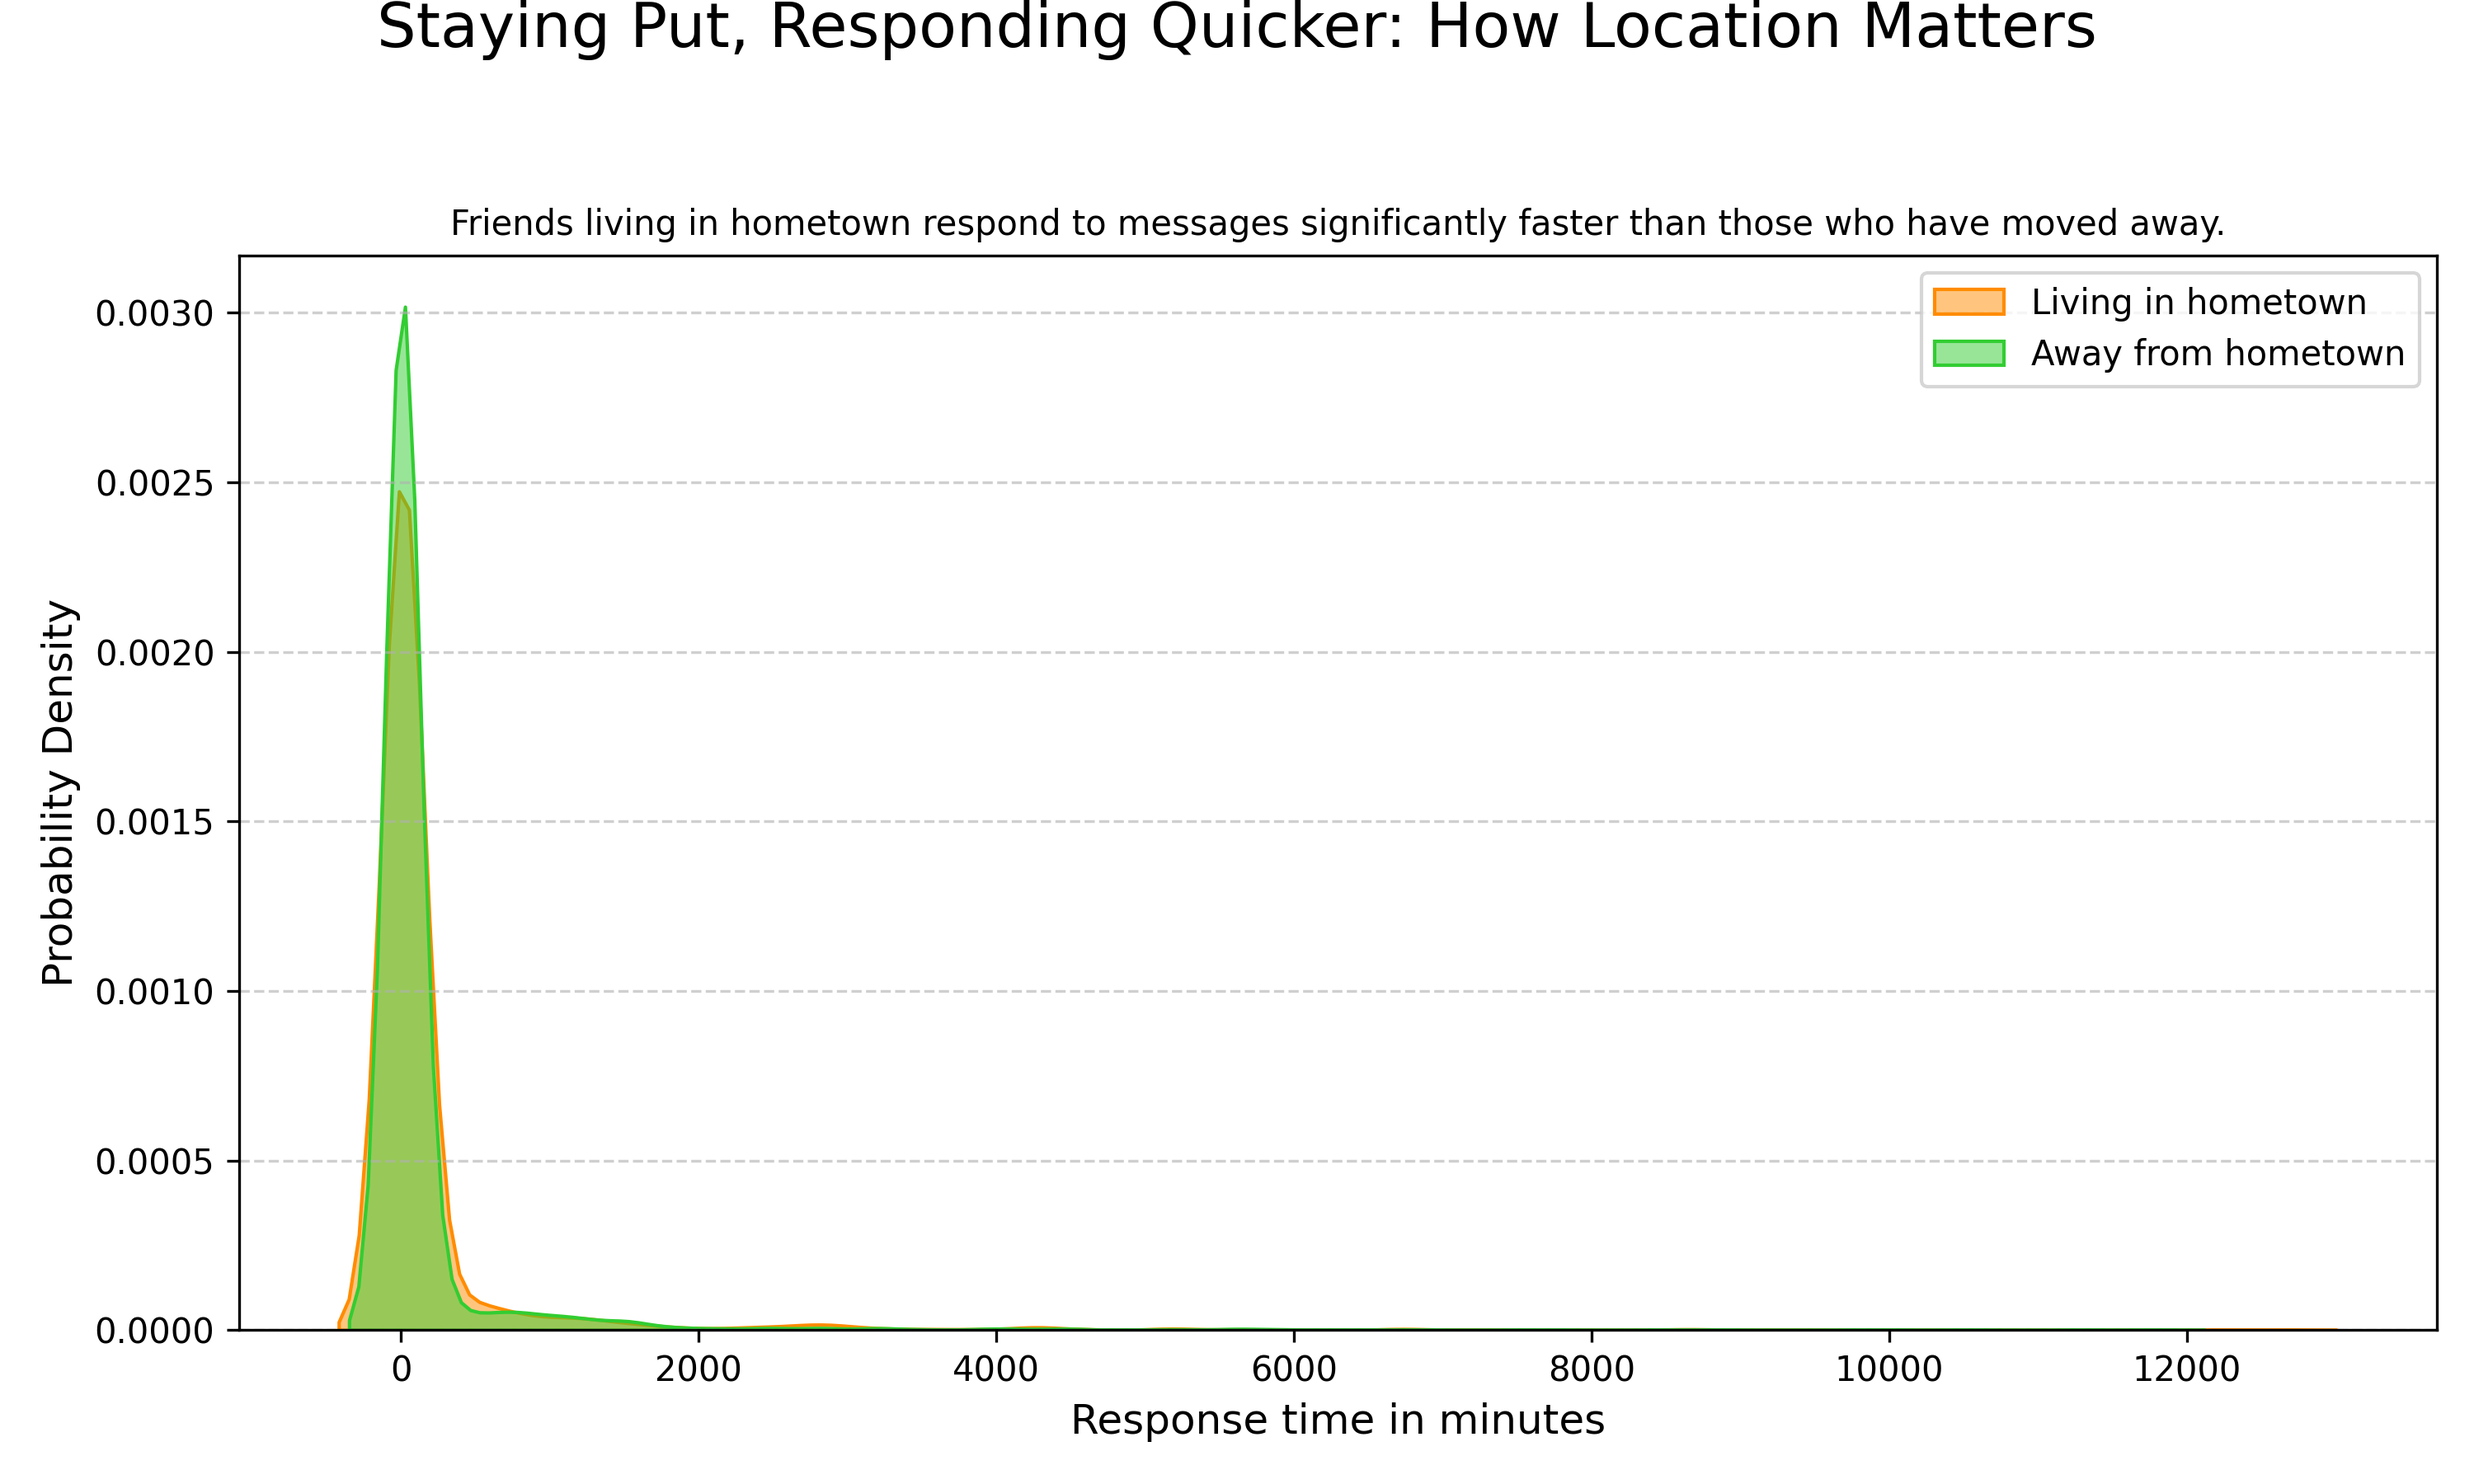
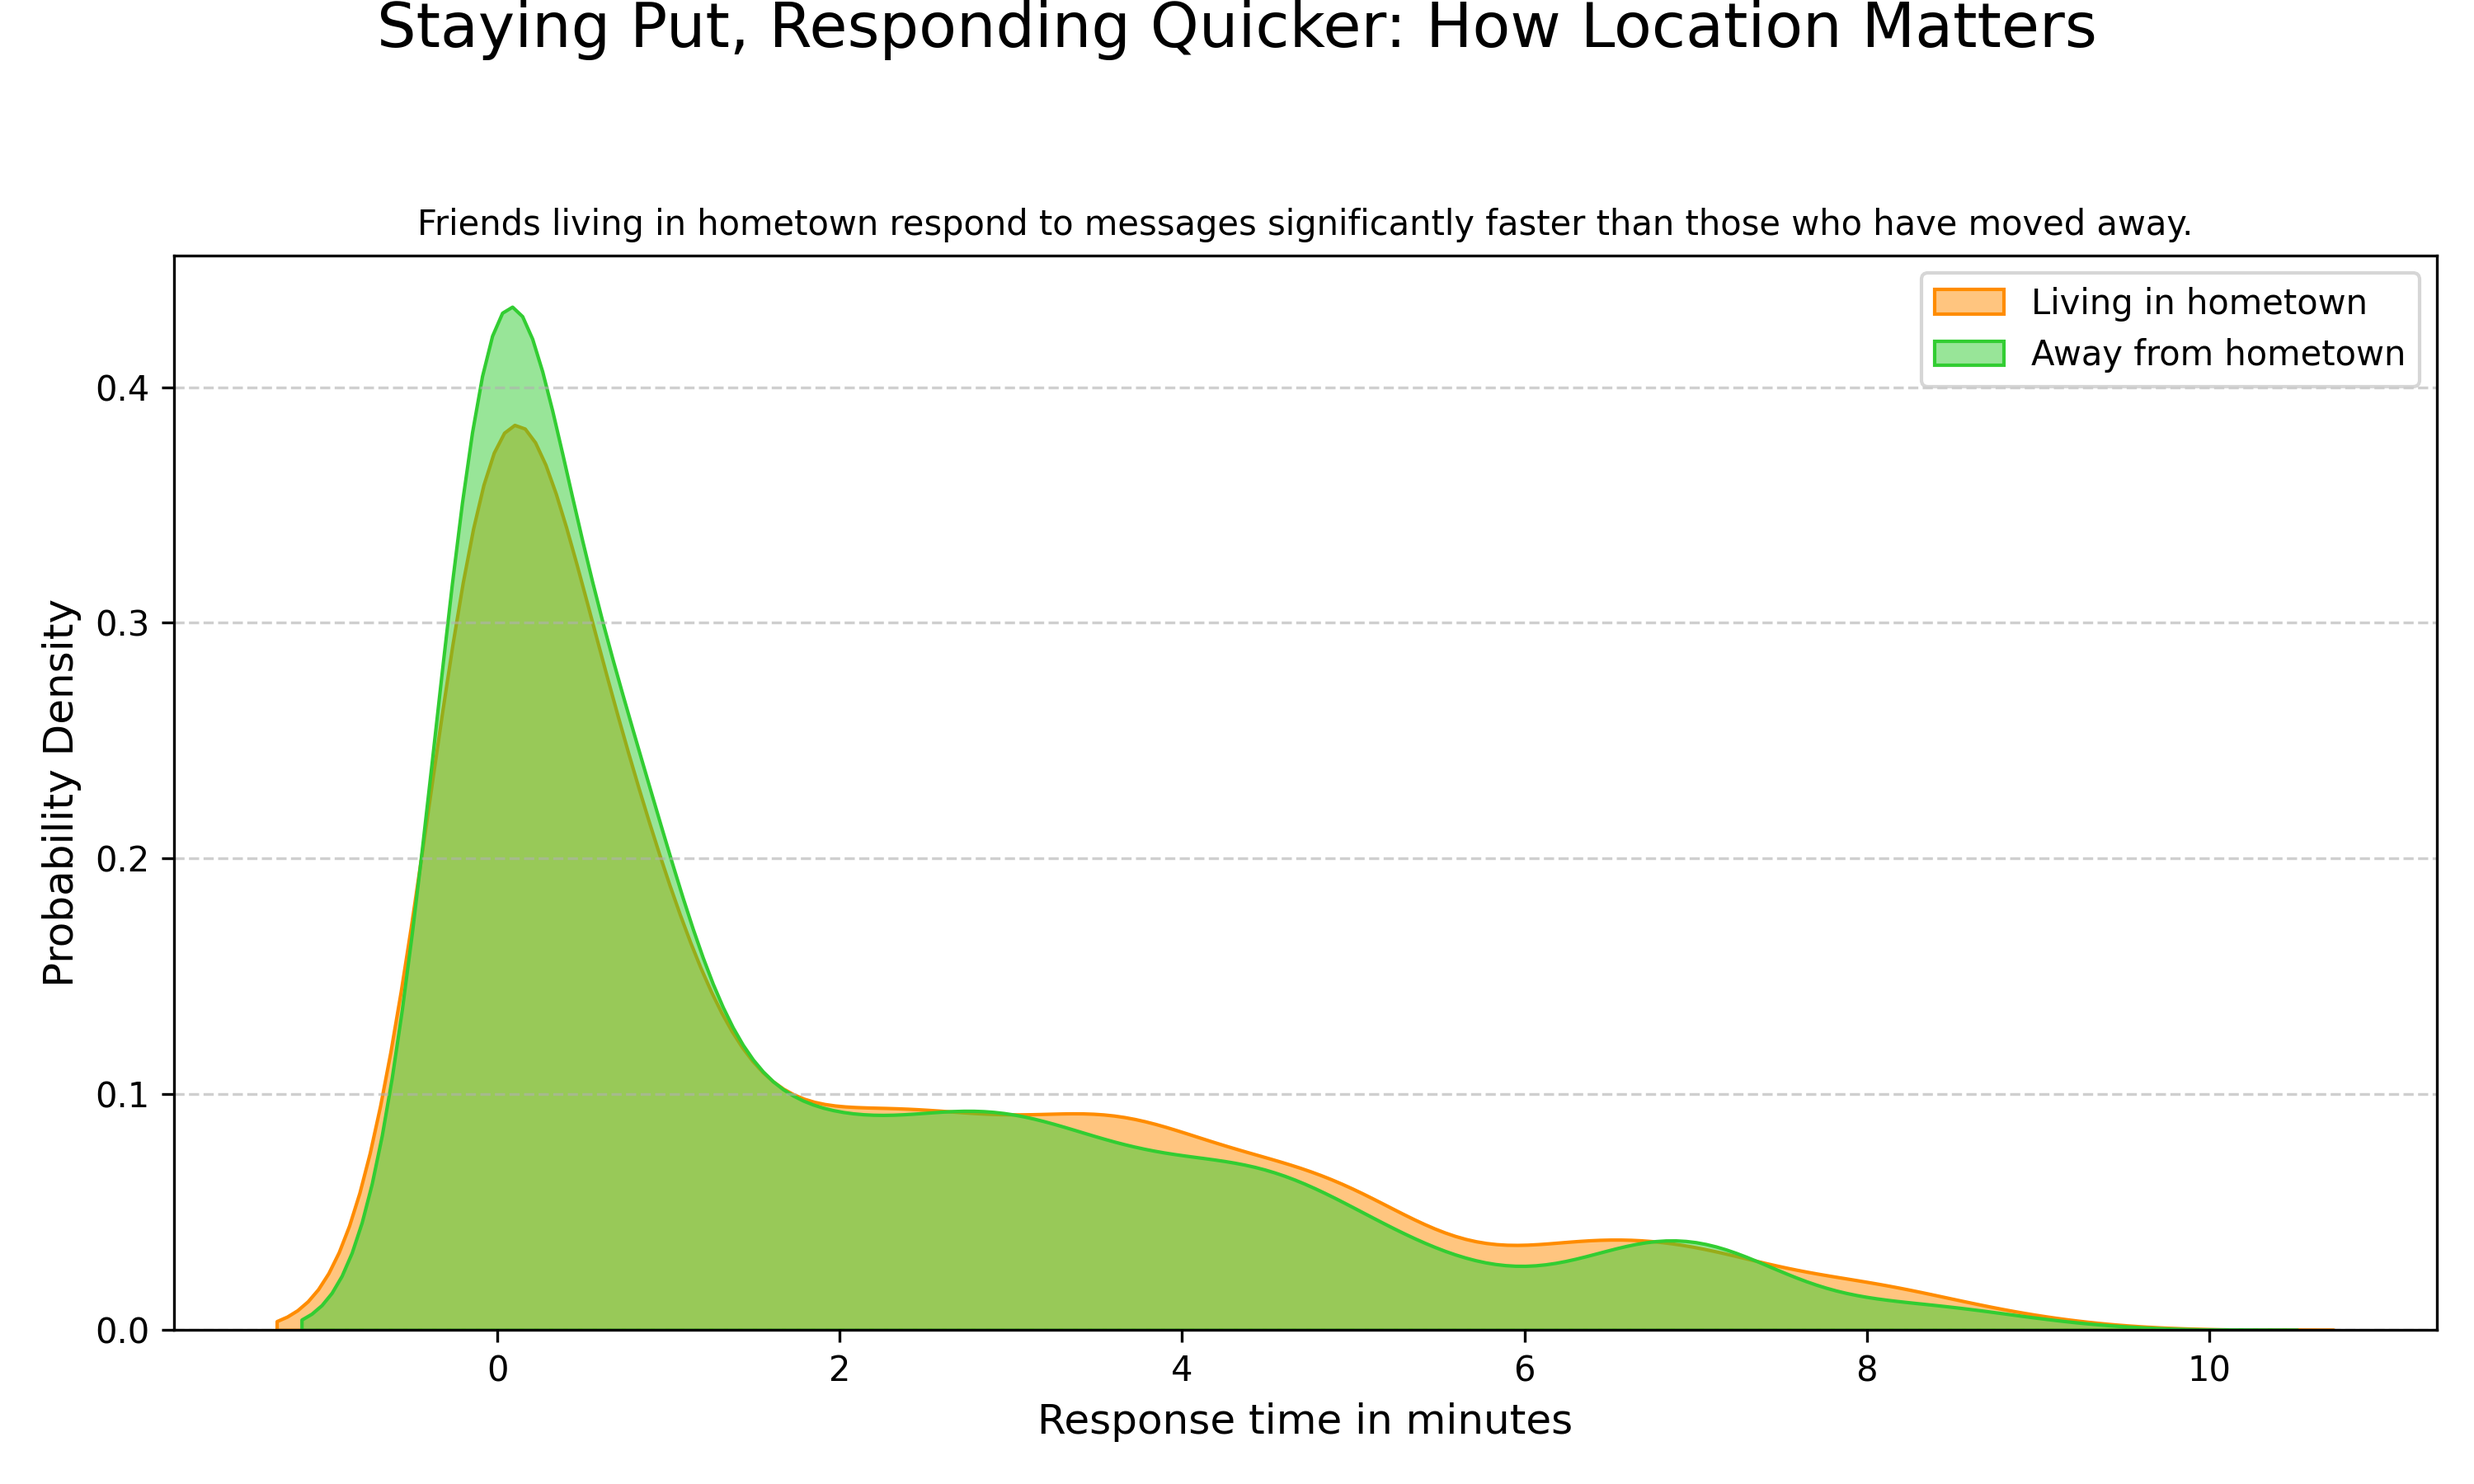
update distribution with log results

diff --git a/src/dav_bas_hv/add_features_v2.py b/src/dav_bas_hv/add_features_v2.py
@@ -118,9 +118,18 @@ class FeatureEngineer:
         df = df.sort_values("timestamp").reset_index(drop=True)
         
         df["time_diff"] = df["timestamp"].diff()
+
+        # Seconds, Minutes, Hours
         df["react_time_sec"] = df["time_diff"].dt.total_seconds()
+        df["react_time_sec_plus_1"] = df["react_time_sec"] + 1 # To avoid division by zero in analyses
+        df["react_time_sec_log"] = np.log(df["react_time_sec_plus_1"]) # Log-transform for skewed distribution
         df["react_time_min"] = df["react_time_sec"] / 60
+        df["react_time_min_plus_1"] = df["react_time_min"] + 1 # To avoid division by zero in analyses
+        df["react_time_min_log"] = np.log(df["react_time_min_plus_1"]) # Log-transform for skewed distribution                                                                                 
         df["react_time_hr"] = df["react_time_sec"] / 3600
+        df["react_time_hr_plus_1"] = df["react_time_hr"] + 1 # To avoid division by zero in analyses
+        df["react_time_hr_log"] = np.log(df["react_time_hr_plus_1"]) # Log-transform for skewed distribution
+
         df.drop(columns=["time_diff"], inplace=True)
         return df
 

diff --git a/src/dav_bas_hv/distribution_graph.py b/src/dav_bas_hv/distribution_graph.py
@@ -36,8 +36,8 @@ class DistributionAnalyzer:
         logger.info("    -> Generating KDE distribution plot.")
         
         # Split data based on the binary feature
-        city_dwellers = df[df['living_in_city'] == 1]['react_time_min']
-        non_city_dwellers = df[df['living_in_city'] == 0]['react_time_min']
+        city_dwellers = df[df['living_in_city'] == 1]['react_time_min_log']
+        non_city_dwellers = df[df['living_in_city'] == 0]['react_time_min_log']
 
         # Create the figure
         fig, ax = plt.subplots(figsize=(10, 6))
